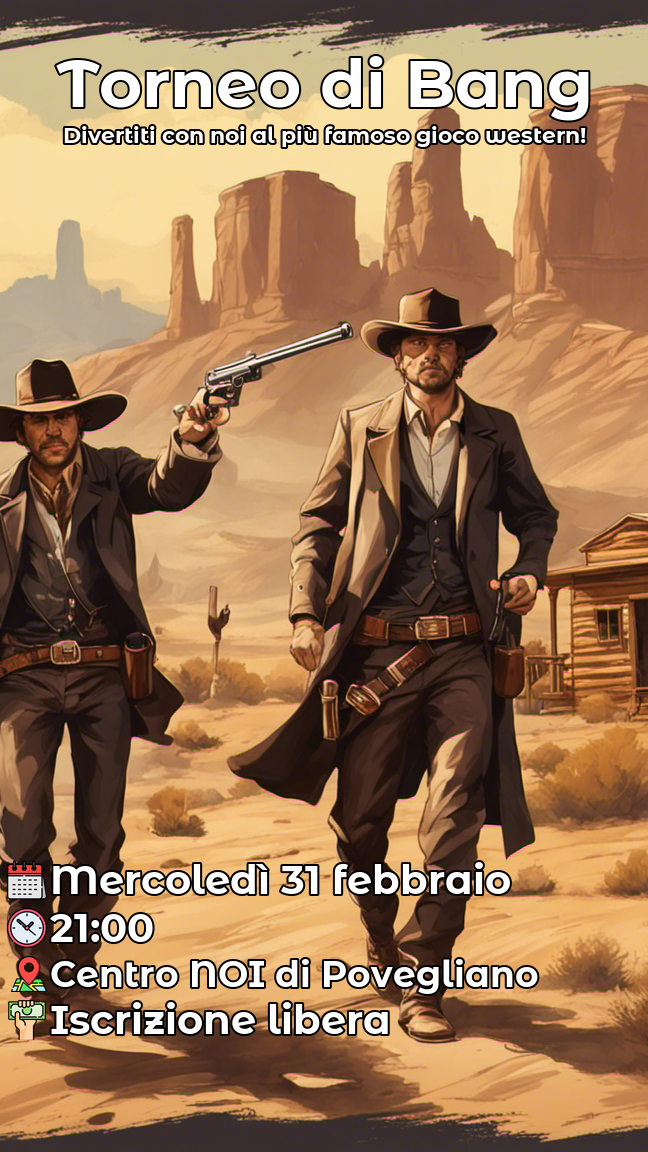
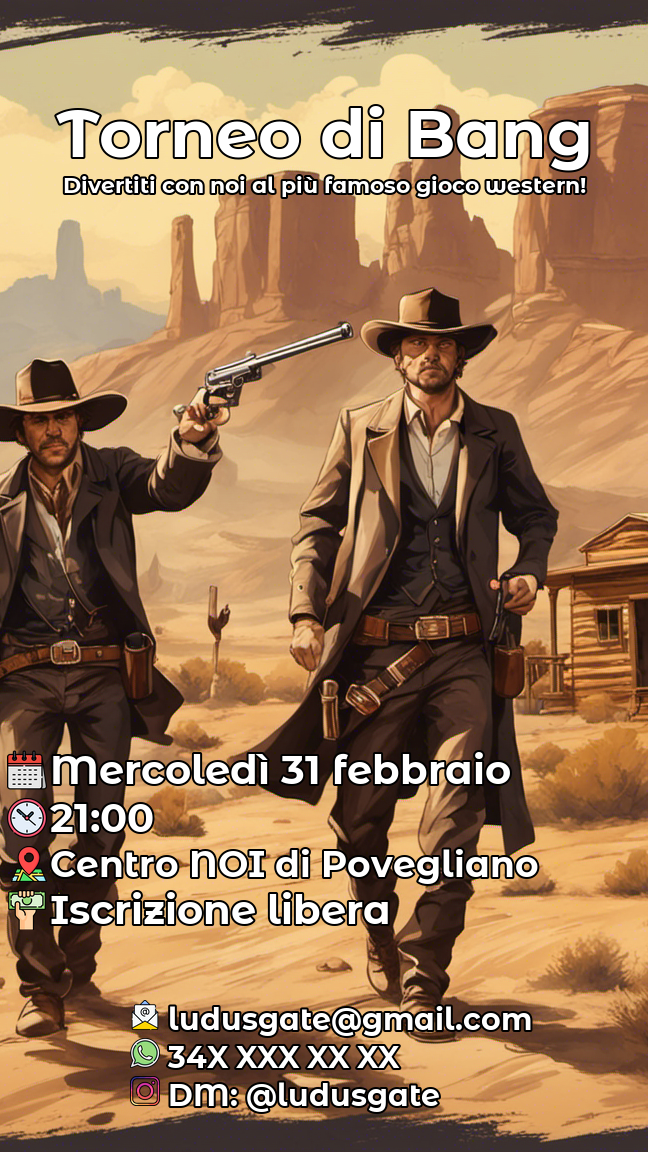
added contacts part

Changed region(s): [[0.0, 0.6562, 0.8333, 0.9688], [0.0926, 0.0312, 0.9259, 0.1875]]

diff --git a/lambda_functions/create_ig_stories/image_editing.py b/lambda_functions/create_ig_stories/image_editing.py
@@ -2,39 +2,59 @@ from PIL import Image, ImageFont, ImageDraw
 import requests
 import io
 
+# ------------------
 # Global constants
-UPPER_BOXES_START_POINT = (50, 50)
+# ---
+# Textbox constants
+UPPER_BOXES_START_POINT = (50, 100)
 UPPER_BOXES_WIDTH = 550
 UPPER_SECTIONS = ["title", "body"]
 
-LOWER_BOXES_START_POINT = (50, 860)
+LOWER_BOXES_START_POINT = (50, 750)
 LOWER_BOXES_WIDTH = 500
 LOWER_SECTIONS = ["date", "time", "location", "cost"]
-
+LOWER_SECTIONS_ORDER = {"date":1,
+                         "time":2, 
+                         "location":3,
+                         "cost":4} # Defines the order of each box. If one section is not present, the next one will take its place
 BOX_MARGIN = 8
-
+CONTACTS_BOX_START_POINT = (130,1000)
+# ---
+# Text color constants
+TEXT_COLOR = (255,255,255)
 STROKE_WIDTH = 2
 STROKE_COLOR = (0,0,0)
-
+# Text size constants
+CONTACT_TEXT_SIZE = 30
+# Font constants
+CONTACT_FONT = "montserratalternates/MontserratAlternates-Bold.ttf"
+# ---
+# Icons constants
 ICONS_PATH = "../../images/icons/"
 ICONS_DICT = {"date":"calendar-color.png", 
               "time":"clock-color.png", 
               "location":"map2-color.png", 
               "cost":"cash-color.png"}
+# ---
+# Contacts constants
+CONTACTS = {
+    "email": {"text": "ludusgate@gmail.com",
+                "icon":"email-color.png"},
+    "whatsapp": {"text": "34X XXX XX XX",
+                "icon":"whatsapp-logo-color.png"},
+    "insta_dm": {"text": "DM: @ludusgate",
+                "icon":"instagram-color.png"}
+}
+
+# ------------------
 
 def draw_textboxes(my_image, edit_dict):
     """
     Disegno i rettangoli dei textboxes sull'immagine. 
     Necessaria solo per la fase di sviluppo, non usata in produzione.
     """
-
     image_editable = ImageDraw.Draw(my_image)
 
-    # x_0 = 50
-    # y_0 = 860
-    # x_1 = 524
-    # y_1 = 524
-    # lower_textbox = ((50, 860), (524,))
     upper_y_0 = UPPER_BOXES_START_POINT[1]
     lower_y_0 = LOWER_BOXES_START_POINT[1]
 
@@ -54,6 +74,8 @@ def draw_textboxes(my_image, edit_dict):
     return my_image
 
 def get_google_font(font: str, size=24):
+    # MIGLIORIA: SCARICARE IL FONT SOLO UNA VOLTA E TENERLO BUONO PER TUTTE LE SEZIONI
+    # E' POSSIBILE? FORSE NO PERCHé VA SCARICATO PER LA SIZE SPECIFICA DI QUEL TESTO
     """
     Questa funzione scarica temporaneamente da github.com/google/fonts/ il file .ttf del font desiderato.
     font: stringa indicante il percorso del font su github.com/google/fonts/ nel formato cartella/font_file.ttf
@@ -93,8 +115,6 @@ def crop_image(my_image, aspect_ratio: tuple):
         resize = (0, offset, width, height - offset)
 
     image = image.crop(resize).resize((ideal_width, ideal_height), Image.LANCZOS)
-    # img_path_cropped = "CROPPED_"+img_path
-    # thumb.save(img_path_cropped)
     return image
 
 def get_text_size(max_width, text, font, max_size):
@@ -114,15 +134,18 @@ def get_text_size(max_width, text, font, max_size):
     return actual_size
 
 def get_text_position(textbox, anchor):
-    # Get textbox dimensions from coordinates
+    """
+    Dato il textbox entro cui deve essere scritto il testo, e il tipo di anchor (i.e. posizione del testo rispetto alla textbox),
+    ritorna la posizione da cui deve essere scritto il testo
+        - se testo centrato ("anchor" == "mm"): posizione = centro del box
+        - se testo allineato a dx ("anchor" == "lb"): posizione = angolo lower left del box
+        - se testo allineato a dx ("anchor" == "lm"): posizione = middle left del box
+        - per ora ci sono solo queste casistiche    
+    """
+    # Get textbox hight from coordinates
     box_h = textbox[1][1] - textbox[0][1]
 
-    # Determinare la posizione del testo
-    # - se testo centrato ("anchor" == "mm"): posizione = centro del box
-    # - se testo allineato a dx ("anchor" == "lb"): posizione = angolo lower left del box
-    # - se testo allineato a dx ("anchor" == "lm"): posizione = middle left del box
-    # - per ora ci sono solo queste casistiche    
-        
+    # Determinare la posizione del testo  
     if anchor == "mm":
         position_x = (textbox[1][0]+textbox[0][0])/2
         position_y = (textbox[1][1]+textbox[0][1])/2
@@ -135,8 +158,40 @@ def get_text_position(textbox, anchor):
 
     return (int(position_x), int(position_y))
 
+def write_contacts(my_image):
+    image_editable = ImageDraw.Draw(my_image)
+
+    writing_cursor_y = CONTACTS_BOX_START_POINT[1]
+    for contact in CONTACTS.keys():
+        writing_cursor_x = CONTACTS_BOX_START_POINT[0]
+        # Get icon
+        icon_path = ICONS_PATH+CONTACTS[contact]["icon"]
+        icon = Image.open(icon_path)
+        # Resize icon
+        icon.thumbnail((CONTACT_TEXT_SIZE, CONTACT_TEXT_SIZE), Image.Resampling.LANCZOS)
+        # Paste the icon on the image
+        icon_position = (int(writing_cursor_x), int(writing_cursor_y))
+        my_image.paste(icon, icon_position, mask=icon)
+        writing_cursor_x += CONTACT_TEXT_SIZE+BOX_MARGIN 
+
+        # Write the text
+        text = CONTACTS[contact]["text"]
+        text_position = (int(writing_cursor_x), int(writing_cursor_y))
+        image_editable.text(text_position, 
+                            text,                        
+                            TEXT_COLOR,
+                            font=get_google_font(CONTACT_FONT, CONTACT_TEXT_SIZE),
+                            stroke_width=STROKE_WIDTH,
+                            stroke_fill=STROKE_COLOR)
+        writing_cursor_y += CONTACT_TEXT_SIZE+BOX_MARGIN
+
+    return my_image
+
 def write_on_image(my_image, edit_dict):
     """
+    Prende in input una PIL.Image e la rende editabile.
+    Itera fra le sezioni di testo (scope) presenti in edit_dict. 
+
     https://pillow.readthedocs.io/en/stable/handbook/text-anchors.html
     """
     image_editable = ImageDraw.Draw(my_image)
@@ -145,13 +200,16 @@ def write_on_image(my_image, edit_dict):
     lower_y_0 = LOWER_BOXES_START_POINT[1]
 
     for scope in edit_dict.keys():
-        if edit_dict[scope]["text"] != "":
+        if edit_dict[scope]["text"] != "": # Solo se la sezione contiene del testo (NB: migliorare la gestione delle sezioni senza testo)
             if scope in UPPER_SECTIONS:
+                # Calcolo dimensione carattere adeguata in base al testo e alla larghezza del box
                 actual_size = get_text_size(UPPER_BOXES_WIDTH, edit_dict[scope]["text"], edit_dict[scope]["font"], edit_dict[scope]["size"])
+                # Definisco le coordinate del textbox in base a dove siamo arrivati a scrivere e alla dimensione del carattere
                 upper_textbox = ((UPPER_BOXES_START_POINT[0], upper_y_0), 
                                  (UPPER_BOXES_START_POINT[0]+UPPER_BOXES_WIDTH, upper_y_0+actual_size)) 
-                position = get_text_position(upper_textbox, edit_dict[scope]["anchor"])      
-   
+                # Calcolo la posizione di scrittura del testo
+                position = get_text_position(upper_textbox, edit_dict[scope]["anchor"])
+                # Scrivo il testo
                 image_editable.text(position, 
                                     edit_dict[scope]["text"],
                                     edit_dict[scope]["color"],
@@ -160,18 +218,18 @@ def write_on_image(my_image, edit_dict):
                                                             , actual_size),
                                     stroke_width=STROKE_WIDTH,
                                     stroke_fill=STROKE_COLOR)
+                # Effettuo update delle coordinate del prossimo upper textbox
                 upper_y_0 = upper_y_0+actual_size+BOX_MARGIN
 
             elif scope in LOWER_SECTIONS:
-                # print(scope)
+                # Calcolo dimensione carattere adeguata in base al testo e alla larghezza del box
                 actual_size = get_text_size(LOWER_BOXES_WIDTH, edit_dict[scope]["text"], edit_dict[scope]["font"], edit_dict[scope]["size"])
-                # print("actual_size", actual_size)  
+                 # Definisco le coordinate del textbox in base a dove siamo arrivati a scrivere e alla dimensione del carattere 
                 lower_textbox = ((LOWER_BOXES_START_POINT[0], lower_y_0), 
                                  (LOWER_BOXES_START_POINT[0]+LOWER_BOXES_WIDTH, lower_y_0+actual_size))
-                # print(lower_textbox)
+                # Calcolo la posizione di scrittura del testo
                 position = get_text_position(lower_textbox, edit_dict[scope]["anchor"])   
-
-                # image_editable.rectangle(lower_textbox, width=3)
+                # Scrivo il testo
                 image_editable.text(position, 
                                     edit_dict[scope]["text"],
                                     edit_dict[scope]["color"],
@@ -181,8 +239,8 @@ def write_on_image(my_image, edit_dict):
                                     stroke_width=STROKE_WIDTH,
                                     stroke_fill=STROKE_COLOR)
                 
-                if scope in ICONS_DICT.keys():
-                    # Add icon
+                # If I have an icon for this section, I add it
+                if scope in ICONS_DICT.keys():                    
                     # Get icon
                     icon_path = ICONS_PATH+ICONS_DICT[scope]
                     icon = Image.open(icon_path)
@@ -191,16 +249,23 @@ def write_on_image(my_image, edit_dict):
 
                     # Paste icon on poster
                     icon_position = (position[0]-actual_size-3, position[1]-int(actual_size/2)) # 3 è un ulteriore offset renderlo parametrico ??
+                    # Paste the icon on the image
                     my_image.paste(icon, icon_position, mask=icon)
-
                 
-
+                # Effettuo update delle coordinate del prossimo lower textbox
                 lower_y_0 = lower_y_0+actual_size+BOX_MARGIN
     
+    my_image = write_contacts(my_image)
+
+
     return my_image
 
-def image_edit(img_path: str, edit_dict: dict, crop=True):
-    
+def image_edit(img_path: str, edit_dict: dict, crop=True, textboxes=False):
+    """
+    Funzione principale per l'editing dell'immagine. Richiama la funzione di cropping e di writing.
+    Le logiche sul posizionamento del testo sono richiamate da write_on_image().
+    Viene salvata fisicamente l'immagine di output con il prefisso "EDIT_".
+    """    
     if crop:
         # Carico immagine
         my_image = Image.open(img_path) 
@@ -211,7 +276,10 @@ def image_edit(img_path: str, edit_dict: dict, crop=True):
         my_image = Image.open(img_path) 
 
     my_image = write_on_image(my_image, edit_dict)
-    # my_image = draw_textboxes(my_image, edit_dict)
+
+    # Richiamo della funzione per disegnare i textboxes. Disattivata di default.
+    if textboxes:
+        my_image = draw_textboxes(my_image, edit_dict)
 
     # Salvataggio risutlato
     my_image.save("EDIT_"+img_path)

diff --git a/lambda_functions/create_ig_stories/main.py b/lambda_functions/create_ig_stories/main.py
@@ -22,12 +22,12 @@ def lambda_handler(event: dict, context):
     img_path = "test_img.png"
 
     # da fare:
-    # https://stackoverflow.com/questions/1970807/center-middle-align-text-with-pil
-    # https://pillow.readthedocs.io/en/stable/handbook/text-anchors.html
-    # - scegliere colore testo parametrico, adatto all'immagine
+    # - rivedere la posizione/layout dei blocchi sia esteticamente
+    # - valutare se iniziare a scrivere i blocchi dal basso, a partire da certe coordinate
+    # - FATTO aggiungere sezione contatti
+    # - FATTO scegliere colore testo parametrico, adatto all'immagine
     #   - non funziona, non c'è un algoritmo per scegliere il migliore colore. Meglio usare bianco con outline nero
-    # - aggiungere icone per luogo, data, ora, costo etc. e metterle a sx del testo
-    # - aggiungere sezione contatti
+    # - FATTO aggiungere icone per luogo, data, ora, costo etc. e metterle a sx del testo
 
     edit_dict = {
         "title": {"text": "Torneo di Bang",
